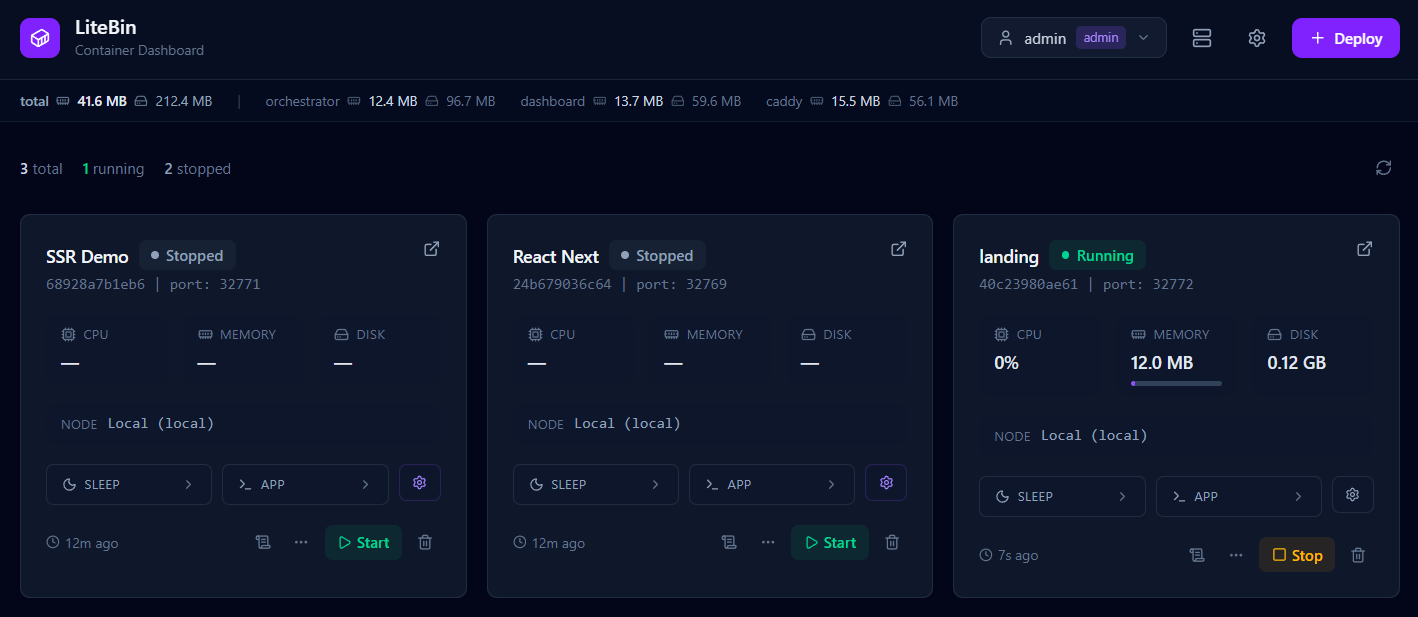
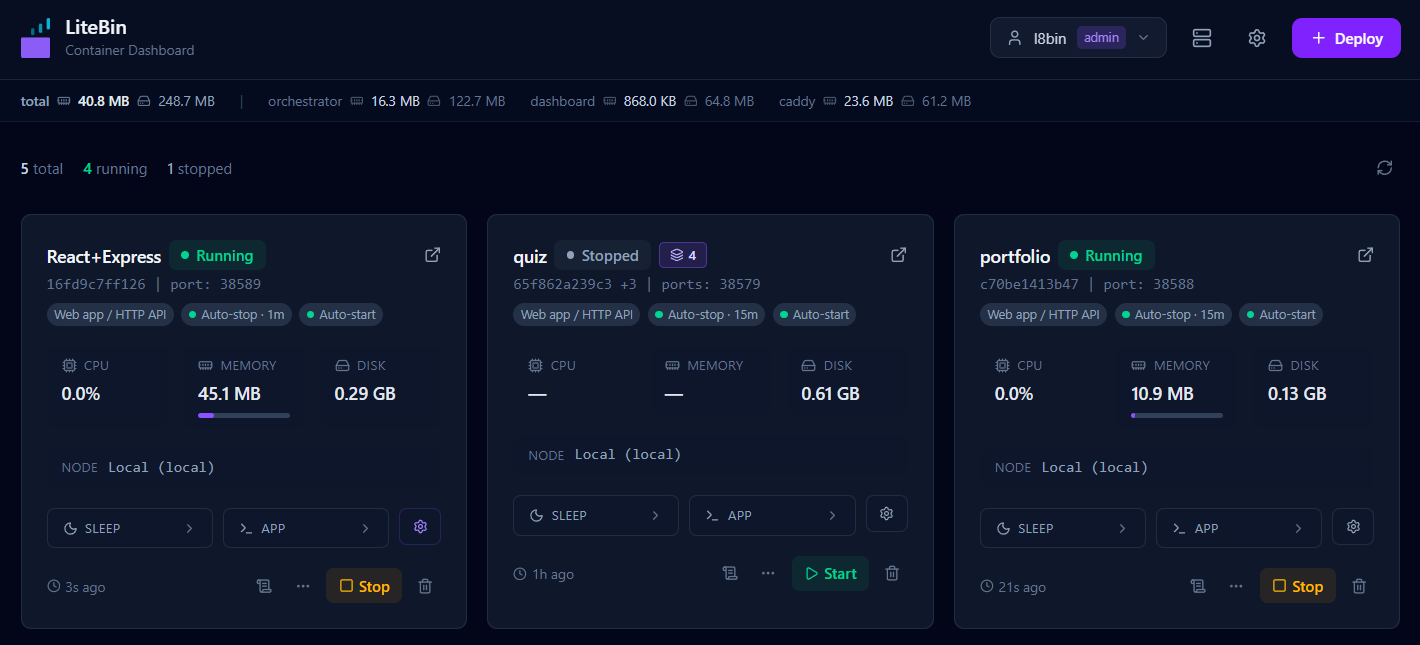
landing pages changes

diff --git a/landing/index.html b/landing/index.html
@@ -72,51 +72,67 @@
             <span class="text-white font-semibold">So I built LiteBin</span> — entire stack under 58MB. Push from your laptop, no building on the VPS. Apps sleep to zero when idle, wake on the first request. Deploy as many as your disk holds.
           </p>
           <div class="flex flex-col sm:flex-row gap-3 justify-center">
-            <a href="#start" class="px-7 py-3.5 bg-white text-night-950 font-bold rounded-xl hover:bg-violet-200 transition text-sm text-center">Install on your VPS</a>
-            <a href="https://react-demo.l8b.in" target="_blank" class="px-7 py-3.5 glass rounded-xl text-sm font-semibold hover:bg-white/5 transition flex items-center justify-center gap-2">
-              <span class="w-2 h-2 rounded-full bg-emerald-500 animate-pulse"></span>See Live Demo
+            <a href="#start" class="px-6 py-3 bg-white text-night-950 font-bold rounded-xl hover:bg-violet-200 transition text-base flex items-center justify-center gap-2">
+              <svg class="w-4 h-4" viewBox="0 0 24 24" fill="none" stroke="currentColor" stroke-width="2" stroke-linecap="round" stroke-linejoin="round" aria-hidden="true"><polyline points="4 17 10 11 4 5"/><line x1="12" x2="20" y1="19" y2="19"/></svg>
+              Install on your VPS
+            </a>
+            <a href="https://react-demo.l8b.in" target="_blank" class="px-6 py-3 rounded-xl text-base font-semibold border border-violet-500/40 bg-violet-500/10 text-violet-200 hover:bg-violet-500/20 hover:border-violet-500/60 transition flex items-center justify-center gap-2">
+              See Live Demo
+              <svg class="w-4 h-4" viewBox="0 0 24 24" fill="none" stroke="currentColor" stroke-width="2" stroke-linecap="round" stroke-linejoin="round" aria-hidden="true"><path d="M15 3h6v6"/><path d="M10 14 21 3"/><path d="M18 13v6a2 2 0 0 1-2 2H5a2 2 0 0 1-2-2V8a2 2 0 0 1 2-2h6"/></svg>
             </a>
           </div>
         </div>
         <!-- Right: memory card -->
+        <div class="flex flex-col">
         <div id="memory-card" class="glass rounded-2xl p-7 glow">
+          <div class="flex items-center gap-3 -mx-7 -mt-7 mb-5 px-5 py-3 rounded-t-2xl bg-black/40 border-b border-white/5">
+            <div class="flex gap-1.5 shrink-0" aria-hidden="true">
+              <span class="w-2.5 h-2.5 rounded-full bg-white/10"></span>
+              <span class="w-2.5 h-2.5 rounded-full bg-white/10"></span>
+              <span class="w-2.5 h-2.5 rounded-full bg-white/10"></span>
+            </div>
+            <span class="hidden sm:inline text-[11px] font-mono text-zinc-500 truncate">root@l8bin — the VPS serving this page</span>
+            <span class="ml-auto flex items-center gap-2 shrink-0">
+              <span id="status-chip" class="text-[11px] font-mono flex items-center gap-1.5 rounded-md border px-2 py-0.5 border-zinc-700 text-zinc-500"><span id="live-dot" class="w-1.5 h-1.5 rounded-full bg-zinc-500 hidden"></span><span id="live-pause" class="hidden items-center gap-[2px]" aria-hidden="true"><span class="w-[2px] h-1.5 rounded-[1px] bg-zinc-400"></span><span class="w-[2px] h-1.5 rounded-[1px] bg-zinc-400"></span></span><span id="live-status">idle snapshot</span></span>
+              <span class="cursor-blink inline-block w-[7px] h-3 bg-emerald-400/70" aria-hidden="true"></span>
+            </span>
+          </div>
           <div class="flex justify-between items-center mb-5">
             <p id="memory-card-label" class="text-xs font-mono text-zinc-500 uppercase tracking-widest">Idle Memory Footprint</p>
-            <span id="status-chip" class="text-xs font-mono flex items-center gap-1.5 rounded-md border px-2 py-0.5 border-zinc-700 text-zinc-500"><span id="live-dot" class="w-1.5 h-1.5 rounded-full bg-zinc-500 hidden"></span><span id="live-status">idle snapshot</span></span>
           </div>
           <div class="space-y-4">
             <div>
-              <div class="flex justify-between text-sm mb-1.5"><span class="font-mono text-zinc-400">L8Bin Manager (Rust)</span><span class="font-bold text-white"><span id="mv-0">9.4</span> MB</span></div>
+              <div class="flex justify-between text-sm mb-1.5"><span class="font-mono text-zinc-400">L8Bin Manager (Rust)</span><span class="font-bold text-white"><span id="mv-0" class="tabular-nums">9.4</span> MB</span></div>
               <div class="h-1.5 bg-white/5 rounded-full"><div class="h-full bg-cyan-500 rounded-full bar-fill" style="width:0%" data-w="16%" data-count-id="mv-0" data-count-val="9.4"></div></div>
             </div>
             <div>
-              <div class="flex justify-between text-sm mb-1.5"><span class="font-mono text-zinc-400">Dashboard (React)</span><span class="font-bold text-white"><span id="mv-1">1.5</span> MB</span></div>
+              <div class="flex justify-between text-sm mb-1.5"><span class="font-mono text-zinc-400">Dashboard (React)</span><span class="font-bold text-white"><span id="mv-1" class="tabular-nums">1.5</span> MB</span></div>
               <div class="h-1.5 bg-white/5 rounded-full"><div class="h-full bg-fuchsia-500 rounded-full bar-fill" style="width:0%" data-w="3%" data-count-id="mv-1" data-count-val="1.5"></div></div>
             </div>
             <div>
-              <div class="flex justify-between text-sm mb-1.5"><span class="font-mono text-zinc-400">Caddy Proxy</span><span class="font-bold text-white"><span id="mv-2">32.8</span> MB</span></div>
+              <div class="flex justify-between text-sm mb-1.5"><span class="font-mono text-zinc-400">Caddy Proxy</span><span class="font-bold text-white"><span id="mv-2" class="tabular-nums">32.8</span> MB</span></div>
               <div class="h-1.5 bg-white/5 rounded-full"><div class="h-full bg-amber-500 rounded-full bar-fill" style="width:0%" data-w="57%" data-count-id="mv-2" data-count-val="32.8"></div></div>
             </div>
             <div class="pt-4 border-t border-white/10 flex justify-between items-center">
               <span id="stack-total-label" class="text-sm font-mono text-zinc-400">Total Resting Stack</span>
-              <span class="text-2xl font-black text-violet-400"><span id="mv-total">43.7</span> <span id="mv-comparison" class="text-base text-zinc-500 font-normal"> &lt; 58 MB</span></span>
+              <span class="text-2xl font-black text-violet-400"><span id="mv-comparison" class="text-base text-zinc-500 font-normal">58 MB &gt; </span><span id="mv-total" class="tabular-nums">43.7</span> MB</span>
             </div>
+            <canvas id="mem-spark" class="w-full h-7 block" aria-hidden="true"></canvas>
           </div>
-          <p id="under-load-note" class="text-[10px] text-zinc-500 uppercase font-mono mb-1" style="display: none;">litebin under load</p>
-          <p id="sleep-state-note" class="text-xs text-zinc-600 mt-3 italic">* Sleep-state RAM only.</p>
-          <div class="mt-4 pt-3 border-t border-white/5">
-            <a href="/live/" class="text-xs font-mono text-zinc-500 hover:text-violet-400 transition flex items-center gap-2">
-              <span class="w-1.5 h-1.5 rounded-full bg-violet-500/50"></span>
-              See full live stats of this VPS →
-            </a>
+          <div class="mt-3 h-4 relative">
+            <p id="sleep-state-note" class="absolute left-0 top-0 text-[11px] text-zinc-600 italic whitespace-nowrap">* Sleep-state RAM only.</p>
+            <p id="under-load-note" class="absolute left-0 top-0 text-[10px] text-amber-500/90 uppercase font-mono whitespace-nowrap" style="visibility: hidden;">vps under load</p>
+            <p id="updated-ago" class="absolute right-0 top-0 text-[10px] text-zinc-600 font-mono whitespace-nowrap" style="visibility: hidden;"></p>
           </div>
         </div>
+        <a href="/live/" class="mt-4 self-center text-xs font-mono text-zinc-300 hover:text-violet-300 transition">
+          see detailed live stats <span class="text-violet-400">→</span>
+        </a>
+        </div>
       </div>
-      <div class="mt-16 text-center">
-        <span class="inline-block py-4 px-8 rounded-xl bg-violet-500/10 border border-violet-500/20">
-          <span class="text-lg text-zinc-300">All your demos. One VPS. <span class="text-violet-400 font-semibold">Set it up once, forget about it.</span></span>
-        </span>
-      </div>
+      <p class="mt-16 text-center text-lg text-zinc-400">
+        All your demos. One VPS. <span class="text-zinc-100 font-semibold">Set it up once, forget about it.</span>
+      </p>
     </div>
   </header>
 
@@ -567,6 +583,7 @@
     <div class="max-w-2xl mx-auto px-6 text-center fade-in">
       <h2 class="text-4xl font-black text-white tracking-tighter mb-3">Deploy your <span class="text-violet-500">first app.</span></h2>
       <p class="text-zinc-500 mb-10">All your demos, one VPS, sleep to zero. No per-app cost.</p>
+      <p class="text-sm text-zinc-400 mb-3">One command over SSH — install LiteBin on your VPS:</p>
       <div class="inline-block p-px bg-gradient-to-r from-violet-500 to-fuchsia-600 rounded-xl mb-4">
         <div class="bg-night-900 px-6 py-4 rounded-[11px] flex items-center gap-4">
           <code class="text-white font-mono text-sm">curl -fsSL l8b.in | bash</code>
@@ -576,7 +593,7 @@
         </div>
       </div>
       <p class="text-xs text-zinc-600 font-mono mb-3">Linux · macOS · Windows — x64 / arm64</p>
-      <p class="text-sm text-zinc-500">New to LiteBin? <a href="quickstart" class="text-violet-400 hover:underline">View Quick Start →</a></p>
+      <p class="text-sm text-zinc-500">New to LiteBin? <a href="quickstart" class="text-violet-400 hover:underline">View Quick Start Guide →</a></p>
     </div>
   </section>
 

diff --git a/landing/src/main.js b/landing/src/main.js
@@ -257,15 +257,121 @@ if (glitchEl) {
   const cardLabel = document.getElementById('memory-card-label');
   const stackLabel = document.getElementById('stack-total-label');
   const sleepNote = document.getElementById('sleep-state-note');
+  const loadNote = document.getElementById('under-load-note');
+  const updatedAgo = document.getElementById('updated-ago');
+  const spark = document.getElementById('mem-spark');
   let evtSource = null;
   let outViewTimer = null;
   let inViewTimer = null;
   let isStreaming = false;
   let retryCount = 0;
+  let inView = false;
+  let hasLive = false;
+  let lastUpdate = 0;
+  let agoTimer = null;
   const MAX_RETRIES = 3;
+  const history = [];
+  const HIST_MAX = 90;
 
   const STATIC_VALS = { 'mv-0': 9.4, 'mv-1': 1.5, 'mv-2': 32.8, 'mv-total': 43.7 };
   const STATIC_WIDTHS = { 'mv-0': '16%', 'mv-1': '3%', 'mv-2': '57%' };
+
+  // One place decides the status chip's text, dot and colour per state.
+  const CHIP_CLASSES = ['border-zinc-700', 'text-zinc-500', 'border-amber-500/30', 'text-amber-400', 'border-emerald-500/30', 'text-emerald-400'];
+  const CHIP_STATES = {
+    idle:       { text: 'idle snapshot', dot: 'bg-zinc-500',    pulse: false, cls: ['border-zinc-700', 'text-zinc-500'] },
+    connecting: { text: 'connecting…',   dot: 'bg-amber-400',   pulse: true,  cls: ['border-amber-500/30', 'text-amber-400'] },
+    live:       { text: 'live',          dot: 'bg-emerald-500', pulse: true,  cls: ['border-emerald-500/30', 'text-emerald-400'] },
+    paused:     { text: 'paused',        dot: 'bg-zinc-500',    pulse: false, cls: ['border-zinc-700', 'text-zinc-500'] },
+  };
+
+  function setChip(state) {
+    const s = CHIP_STATES[state];
+    if (statusText) statusText.textContent = s.text;
+    if (statusDot) {
+      statusDot.classList.remove('hidden', 'bg-zinc-500', 'bg-amber-400', 'bg-emerald-500', 'animate-pulse');
+      if (state === 'idle' || state === 'paused') statusDot.classList.add('hidden');
+      statusDot.classList.add(s.dot);
+      if (s.pulse) statusDot.classList.add('animate-pulse');
+    }
+    const pauseIcon = document.getElementById('live-pause');
+    if (pauseIcon) {
+      pauseIcon.classList.toggle('hidden', state !== 'paused');
+      pauseIcon.classList.toggle('flex', state === 'paused');
+      pauseIcon.classList.toggle('animate-pulse', state === 'paused');
+    }
+    if (statusChip) { statusChip.classList.remove(...CHIP_CLASSES); statusChip.classList.add(...s.cls); }
+  }
+
+  // Ease a numeric readout to its new value; tabular-nums keeps digits
+  // from reflowing the layout while it animates.
+  function tweenValue(el, to) {
+    if (!el) return;
+    const from = parseFloat(el.textContent) || 0;
+    cancelAnimationFrame(el._raf);
+    if (Math.abs(to - from) < 0.05) { el.textContent = to.toFixed(1); return; }
+    const t0 = performance.now(), dur = 500;
+    (function step(now) {
+      const p = Math.min((now - t0) / dur, 1);
+      el.textContent = (from + (to - from) * (1 - Math.pow(1 - p, 3))).toFixed(1);
+      if (p < 1) el._raf = requestAnimationFrame(step);
+    })(t0);
+  }
+
+  // Sparkline of the total over the stream's lifetime.
+  function drawSpark() {
+    if (!spark || !spark.clientWidth) return;
+    const dpr = window.devicePixelRatio || 1;
+    const w = spark.clientWidth, h = spark.clientHeight;
+    if (spark.width !== Math.round(w * dpr) || spark.height !== Math.round(h * dpr)) {
+      spark.width = Math.round(w * dpr);
+      spark.height = Math.round(h * dpr);
+    }
+    const ctx = spark.getContext('2d');
+    ctx.setTransform(dpr, 0, 0, dpr, 0, 0);
+    ctx.clearRect(0, 0, w, h);
+
+    if (history.length < 2) {
+      // No stream yet — a faint dotted baseline where the graph will live.
+      ctx.strokeStyle = 'rgba(139, 92, 246, 0.25)';
+      ctx.setLineDash([2, 5]);
+      ctx.beginPath();
+      ctx.moveTo(0, h / 2);
+      ctx.lineTo(w, h / 2);
+      ctx.stroke();
+      return;
+    }
+
+    const min = Math.min(...history), max = Math.max(...history);
+    const pad = ((max - min) || 1) * 0.15 + 0.5;
+    const lo = min - pad, hi = max + pad;
+    const x = i => (i / (history.length - 1)) * w;
+    const y = v => h - ((v - lo) / (hi - lo)) * h;
+
+    ctx.beginPath();
+    history.forEach((v, i) => (i ? ctx.lineTo(x(i), y(v)) : ctx.moveTo(x(i), y(v))));
+    ctx.strokeStyle = '#8b5cf6';
+    ctx.lineWidth = 1.5;
+    ctx.setLineDash([]);
+    ctx.stroke();
+    ctx.lineTo(w, h);
+    ctx.lineTo(0, h);
+    ctx.closePath();
+    const grad = ctx.createLinearGradient(0, 0, 0, h);
+    grad.addColorStop(0, 'rgba(139, 92, 246, 0.22)');
+    grad.addColorStop(1, 'rgba(139, 92, 246, 0)');
+    ctx.fillStyle = grad;
+    ctx.fill();
+  }
+
+  // "updated 4s ago" — resets on every message, hides when the stream goes stale.
+  function tickAgo() {
+    if (!updatedAgo || !hasLive) return;
+    const s = Math.max(0, Math.round((Date.now() - lastUpdate) / 1000));
+    if (s > 45) { updatedAgo.style.visibility = 'hidden'; return; }
+    updatedAgo.textContent = s < 5 ? 'updated just now' : `updated ${s}s ago`;
+    updatedAgo.style.visibility = 'visible';
+  }
 
   function updateUI(data) {
     if (!data || !data.containers) return;
@@ -294,8 +400,7 @@ if (glitchEl) {
     // Update individual bars and counts
     Object.values(targets).forEach(t => {
       const val = found[t.id] || 0;
-      const el = document.getElementById(t.id);
-      if (el) el.textContent = val.toFixed(1);
+      tweenValue(document.getElementById(t.id), val);
       
       const bar = document.querySelector(`.bar-fill[data-count-id="${t.id}"]`);
       if (bar) {
@@ -306,22 +411,25 @@ if (glitchEl) {
     });
 
     // Update total
-    const totalEl = document.getElementById('mv-total');
-    if (totalEl) totalEl.textContent = totalMem.toFixed(1);
+    tweenValue(document.getElementById('mv-total'), totalMem);
 
     // RAM threshold logic
     const isOver = totalMem > 58;
-    if (compLabel) compLabel.style.display = isOver ? 'none' : 'inline';
-    
-    const loadNote = document.getElementById('under-load-note');
-    if (loadNote) loadNote.style.display = isOver ? 'block' : 'none';
+    if (compLabel) compLabel.style.visibility = isOver ? 'hidden' : 'visible';
+    if (loadNote) loadNote.style.visibility = isOver ? 'visible' : 'hidden';
 
-    if (statusText) { statusText.textContent = 'LIVE'; statusText.classList.remove('text-zinc-500'); statusText.classList.add('text-emerald-400'); }
-    if (statusDot) { statusDot.classList.remove('hidden', 'bg-zinc-500'); statusDot.classList.add('bg-emerald-500', 'animate-pulse'); }
-    if (statusChip) { statusChip.classList.remove('border-zinc-700', 'text-zinc-500'); statusChip.classList.add('border-emerald-500/30', 'text-emerald-400'); }
+    setChip('live');
+    hasLive = true;
+    lastUpdate = Date.now();
     if (cardLabel) cardLabel.textContent = 'Active Memory Footprint';
     if (stackLabel) stackLabel.textContent = 'Total Active Stack';
-    if (sleepNote) sleepNote.style.display = 'none';
+    if (sleepNote) sleepNote.style.visibility = 'hidden';
+
+    history.push(totalMem);
+    if (history.length > HIST_MAX) history.shift();
+    drawSpark();
+    if (!agoTimer) agoTimer = setInterval(tickAgo, 1000);
+    tickAgo();
   }
 
   function fallback() {
@@ -333,20 +441,24 @@ if (glitchEl) {
       const id = bar.dataset.countId;
       if (STATIC_WIDTHS[id]) bar.style.width = STATIC_WIDTHS[id];
     });
-    if (compLabel) compLabel.style.display = 'inline';
-    const loadNote = document.getElementById('under-load-note');
-    if (loadNote) loadNote.style.display = 'none';
-    if (statusText) { statusText.textContent = 'idle snapshot'; statusText.classList.remove('text-emerald-400'); statusText.classList.add('text-zinc-500'); }
-    if (statusDot) { statusDot.classList.add('hidden'); statusDot.classList.remove('animate-pulse'); statusDot.classList.add('bg-zinc-500'); }
-    if (statusChip) { statusChip.classList.remove('border-emerald-500/30', 'text-emerald-400'); statusChip.classList.add('border-zinc-700', 'text-zinc-500'); }
+    if (compLabel) compLabel.style.visibility = 'visible';
+    if (loadNote) loadNote.style.visibility = 'hidden';
     if (cardLabel) cardLabel.textContent = 'Idle Memory Footprint';
     if (stackLabel) stackLabel.textContent = 'Total Resting Stack';
-    if (sleepNote) sleepNote.style.display = '';
+    if (sleepNote) sleepNote.style.visibility = 'visible';
+    if (updatedAgo) updatedAgo.style.visibility = 'hidden';
+    clearInterval(agoTimer);
+    agoTimer = null;
+    hasLive = false;
+    history.length = 0;
+    drawSpark();
+    setChip('idle');
   }
 
   function startStream() {
     if (isStreaming) return;
     isStreaming = true;
+    setChip('connecting');
     
     evtSource = new EventSource('/stats/stream');
     evtSource.onmessage = (e) => {
@@ -375,10 +487,12 @@ if (glitchEl) {
       evtSource = null;
     }
     isStreaming = false;
-    if (paused && statusText) statusText.textContent = 'PAUSED';
+    if (paused) {
+      setChip('paused');
+      if (updatedAgo) updatedAgo.style.visibility = 'hidden';
+    }
   }
 
-  let inView = false;
   const obs = new IntersectionObserver(entries => {
     const entry = entries[0];
     if (entry.isIntersecting) {
@@ -416,6 +530,8 @@ if (glitchEl) {
       }, 2000);
     }
   });
+
+  drawSpark(); // dotted baseline until the stream arrives
 })();
 
 // Mobile menu toggle

diff --git a/landing/live/index.html b/landing/live/index.html
@@ -159,9 +159,9 @@
         </div>
         
         <div class="flex flex-col gap-3 flex-1">
-          <div class="flex gap-4">
+          <div class="flex flex-col sm:flex-row gap-4">
             <!-- Memory Box -->
-            <div class="flex flex-col gap-2 justify-center flex-1 min-w-0">
+            <div class="flex flex-col gap-2 justify-center sm:flex-1 min-w-0">
               <div class="flex items-center gap-2 text-slate-400 mb-1">
                 <svg class="w-4 h-4 text-teal-400" fill="none" viewBox="0 0 24 24" stroke="currentColor" width="16" height="16"><path stroke-linecap="round" stroke-linejoin="round" stroke-width="2" d="M9 3v2m6-2v2M9 19v2m6-2v2M5 9H3m2 6H3m18-6h-2m2 6h-2M7 19h10a2 2 0 002-2V7a2 2 0 00-2-2H7a2 2 0 00-2 2v10a2 2 0 002 2zM9 9h6v6H9V9z" /></svg>
                 <span class="text-[0.65rem] font-bold uppercase tracking-widest text-slate-400">Memory</span>
@@ -174,7 +174,7 @@
             </div>
 
             <!-- Swap Box (hidden by default, shown if > 64MB) -->
-            <div class="hidden flex-col gap-2 justify-center w-[40%] min-w-0" id="swap-box">
+            <div class="hidden flex-col gap-2 justify-center w-full sm:w-[40%] min-w-0" id="swap-box">
               <div class="flex items-center gap-2 text-slate-400 mb-1">
                 <svg class="w-4 h-4 text-amber-400" fill="none" viewBox="0 0 24 24" stroke="currentColor" width="16" height="16"><path stroke-linecap="round" stroke-linejoin="round" stroke-width="2" d="M8 7h12m0 0l-4-4m4 4l-4 4m0 6H4m0 0l4 4m-4-4l4-4" /></svg>
                 <span class="text-[0.65rem] font-bold uppercase tracking-widest text-slate-400">Swap</span>

diff --git a/landing/src/style.css b/landing/src/style.css
@@ -116,6 +116,17 @@ html {
   }
 }
 
+/* Terminal cursor blink — hard steps, deliberately not a smooth fade. */
+.cursor-blink {
+  animation: blink-hard 1.1s steps(1) infinite;
+}
+
+@keyframes blink-hard {
+  50% {
+    opacity: 0;
+  }
+}
+
 .tl {
   font-size: 0.78rem;
   font-family: "JetBrains Mono", monospace;
